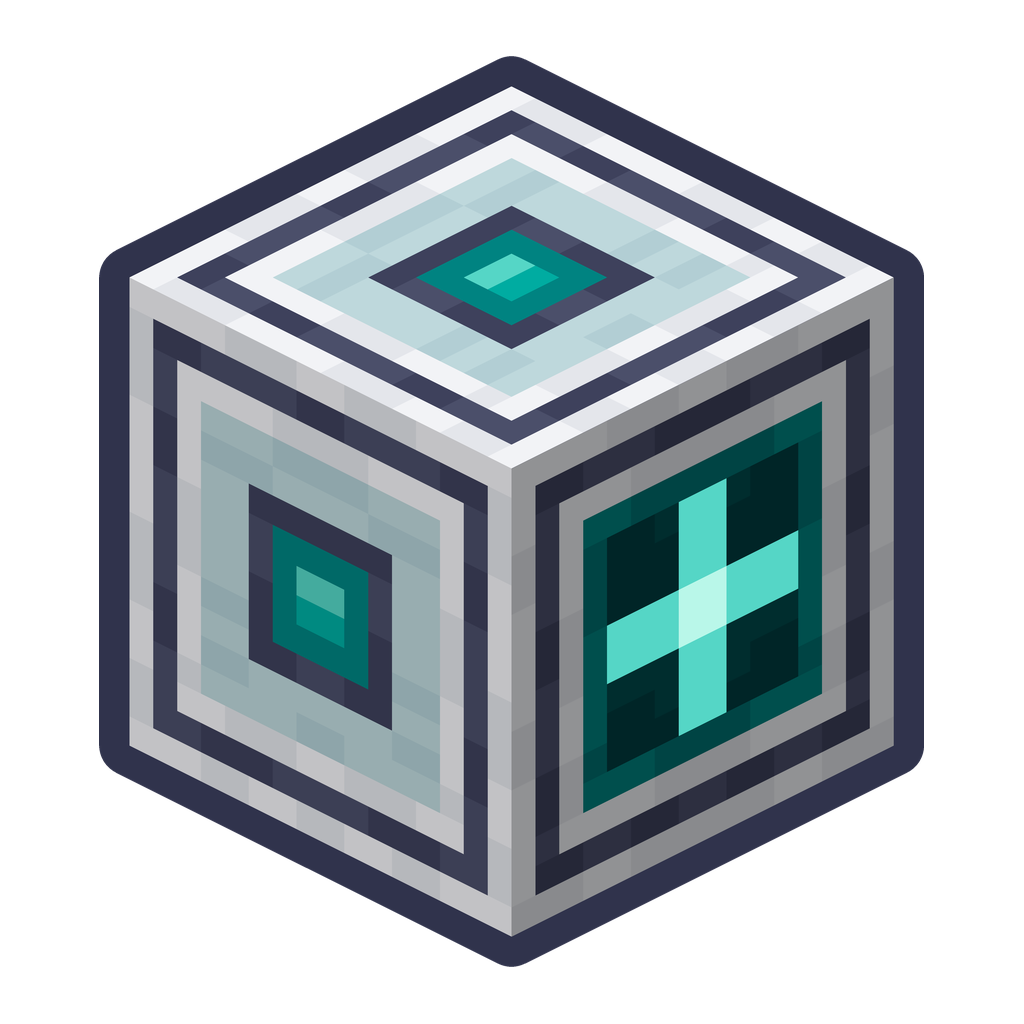
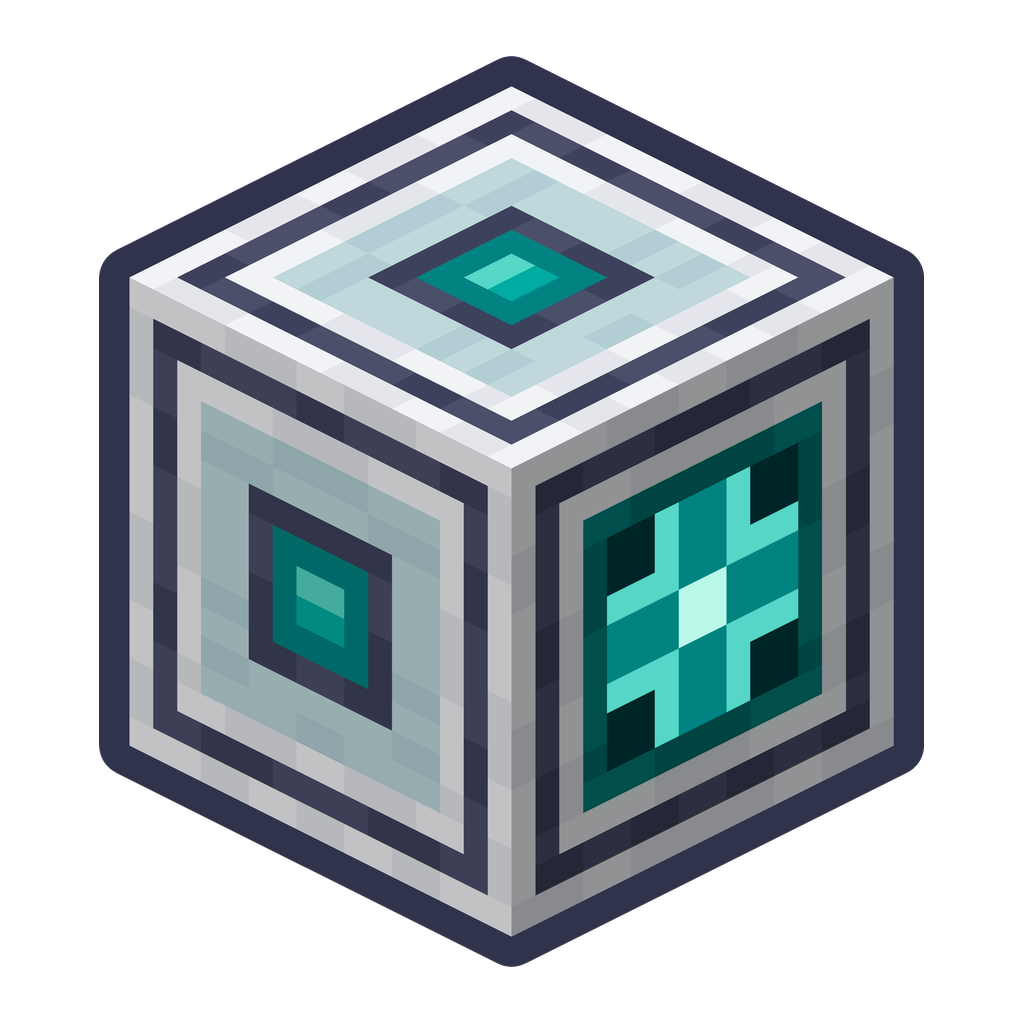
feat(art): sign the Junction with two crossing channels

Changed region(s): [[0.5938, 0.4375, 0.7812, 0.75]]

diff --git a/tools/art.py b/tools/art.py
@@ -306,15 +306,16 @@ GLYPHS = {
         "........",
         "--------",
     ],
+    # two channels crossing, lit where they meet
     "add": [
-        "...##...",
-        "...##...",
-        "...##...",
-        "###++###",
-        "###++###",
-        "...##...",
-        "...##...",
-        "...##...",
+        "..#--#..",
+        "..#--#..",
+        "###--###",
+        "---++---",
+        "---++---",
+        "###--###",
+        "..#--#..",
+        "..#--#..",
     ],
     "multiply": [
         "#......#",
